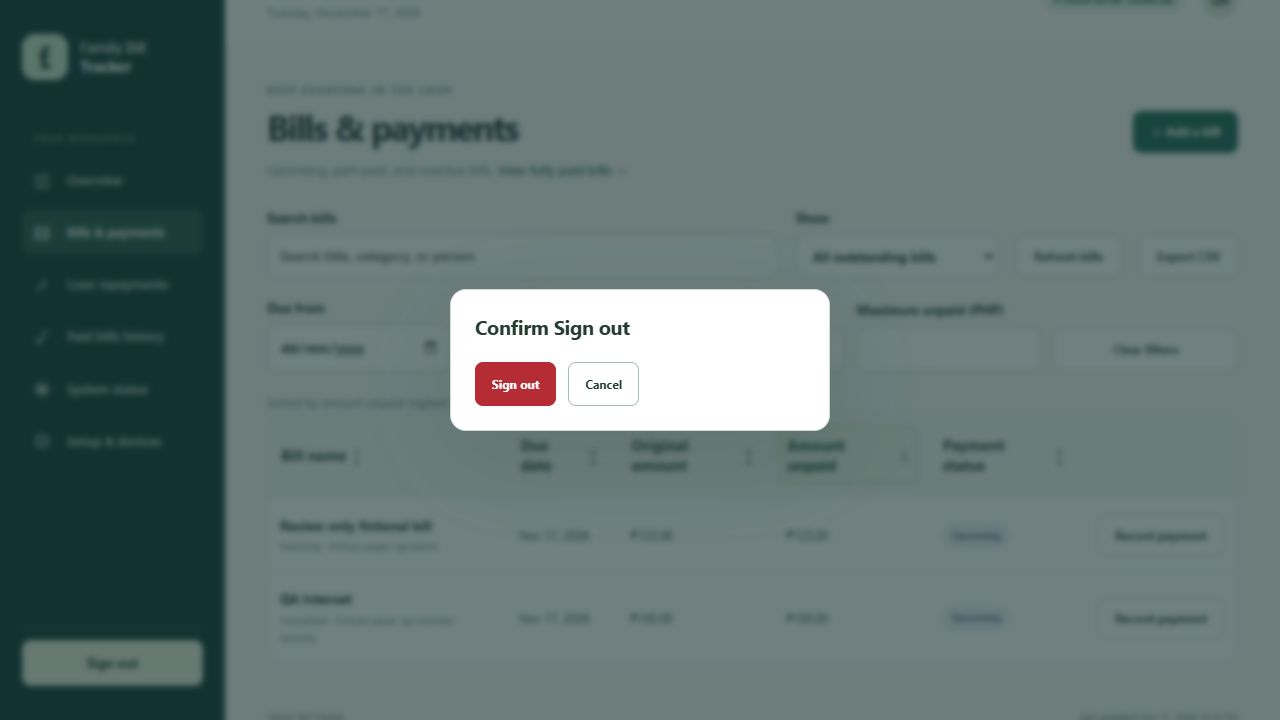
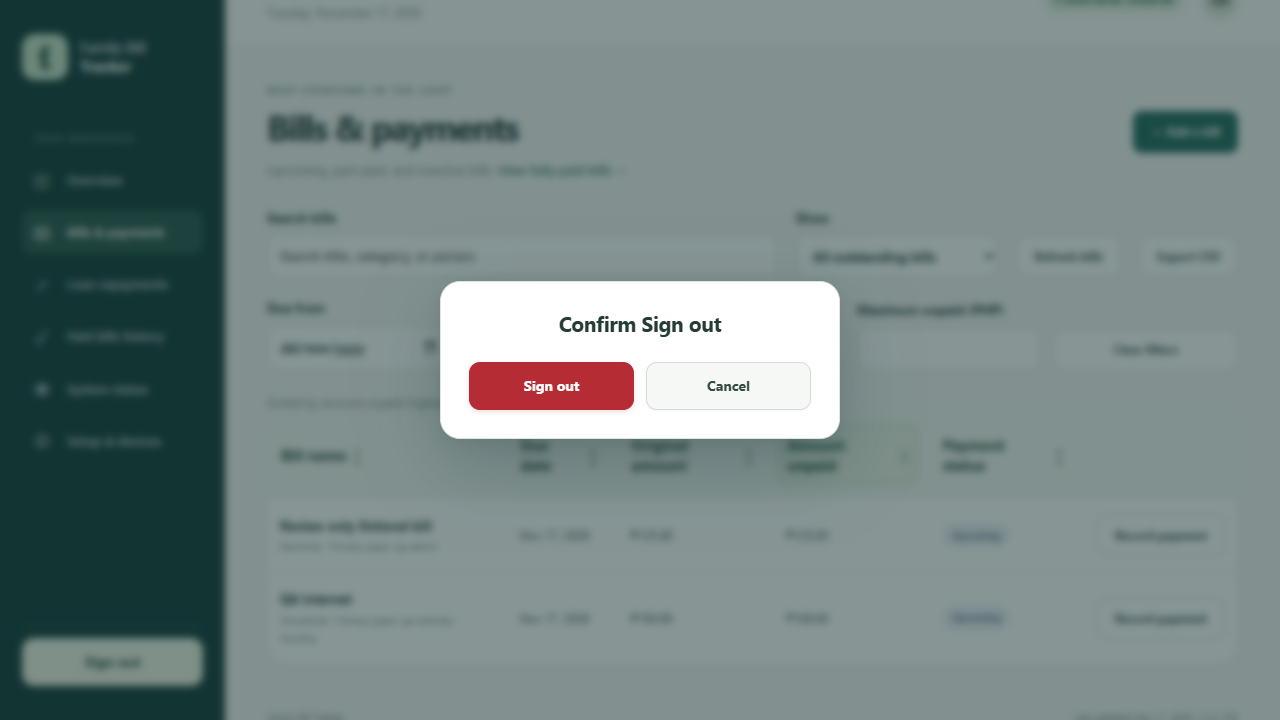
Polish sign-out button and confirmation box

Changed region(s): [[0.3438, 0.3667, 0.6562, 0.6111], [0.0312, 0.8861, 0.1562, 0.9472], [0.5625, 0.5194, 0.5938, 0.55]]

diff --git a/static/app.css b/static/app.css
@@ -1,5 +1,6 @@
 @import url("/static/fonts.css");
 
+
 .stats{grid-template-columns:repeat(3,minmax(0,1fr))}.sort-heading{border:0;background:transparent;color:var(--ink);font:inherit;font-weight:700;text-align:left;padding:5px 0;min-height:44px;white-space:nowrap}.sort-heading:hover{text-decoration:underline}.mobile-bill-sort{display:none}.bill-type-choices{display:grid;gap:14px;margin:20px 0}.bill-type-choice{background:#f3f7ed;color:var(--ink);border:1px solid #cbd9c6;border-radius:12px;padding:20px;text-align:left;min-height:90px}.bill-type-choice strong{display:block;font-size:20px;margin-bottom:5px}.bill-type-choice span{display:block;font-size:13px;font-weight:400}.bill-type-choice:hover{background:#e5efdc}.loan-preview{margin:20px 0}.schedule-scroll{max-height:230px;overflow:auto;border:1px solid var(--line);border-radius:10px}.schedule-scroll th,.schedule-scroll td{padding:10px;font-size:12px}.schedule-scroll td:first-child{min-width:0}.history-table{padding:0;overflow:hidden}.history-table .small{display:block}.history-table .bill-detail{white-space:normal}#history .hint{margin-bottom:16px}#history-summary{margin-top:12px}.history-table td{vertical-align:top}
 
 /* Enter money directly; retain native numeric validation and decimal keyboards. */
@@ -28,3 +29,6 @@ progress{display:block;width:100%;height:9px;border:0;accent-color:#609779;margi
 .bill-table th{padding:12px 20px;text-transform:none;letter-spacing:0;background:#f3f7f2}.bill-table .sort-heading{display:inline-flex;align-items:center;gap:9px;min-height:46px;margin-left:-10px;padding:10px;border:1px solid transparent;border-radius:9px;font-family:inherit;font-size:15px;font-weight:700;line-height:1.35;letter-spacing:0;text-transform:none;color:#25483d;text-decoration:none}.sort-heading span{font-size:18px;line-height:1;color:#617b6e}.bill-table .sort-heading:hover{background:#e4efdf;border-color:#abc5af;color:#153f31;text-decoration:none}.bill-table th[aria-sort=ascending] .sort-heading,.bill-table th[aria-sort=descending] .sort-heading{background:#eaf2e5;border-color:#bed1b7;color:#174d3a}.bill-table th[aria-sort=ascending] .sort-heading:hover,.bill-table th[aria-sort=descending] .sort-heading:hover{background:#dcebd5;border-color:#8daf95}.bill-table .sort-heading:focus-visible{outline:3px solid #3c8666;outline-offset:2px;background:#e4efdf}.mobile-bill-sort .button{font-size:13px;gap:8px}.mobile-bill-sort .button:hover{background:#e4efdf;border-color:#abc5af}@media(min-width:781px){.bill-table table{min-width:890px}}@media(prefers-reduced-motion:no-preference){.sort-heading,.mobile-bill-sort .button{transition:background-color .15s,border-color .15s,color .15s}}
 
 .bill-table .sort-heading{white-space:normal;max-width:142px;margin-left:-8px;padding:9px 8px;gap:6px}@media(min-width:781px){.bill-table th{padding:12px}.bill-table td{padding:16px 12px}}
+
+/* A defined, comfortable sidebar action that stays distinct from navigation. */
+@media(min-width:781px){.sidebar-signout{min-height:48px;padding:12px 18px;border-radius:12px;border-color:#c6d7bd;background:#eff4e6;color:#214b3b;font-size:14px;box-shadow:inset 0 1px 0 #ffffffb3,0 2px 5px #082b2326}.sidebar-signout:hover{background:#e0ebd4;border-color:#aac39e;box-shadow:inset 0 1px 0 #ffffffb3,0 3px 8px #082b2333}}@media(max-width:780px){.sidebar-signout{border-radius:11px;min-height:44px;min-width:78px;padding:10px 12px}}@media(prefers-reduced-motion:no-preference){.sidebar-signout{transition:background-color .15s,border-color .15s,box-shadow .15s}}

diff --git a/static/review.css b/static/review.css
@@ -1,2 +1,4 @@
 .review-dialog{box-sizing:border-box;width:calc(100% - 32px);max-width:580px;max-height:88dvh;overflow:auto;border:1px solid #cfdad3;border-radius:16px;padding:24px;background:var(--body-bg,#fff);color:var(--body-fg,#243c32)}.review-dialog::backdrop{background:#102b2c99}.review-dialog h2{margin:0 0 16px}.review-dialog p{margin:12px 0;font-size:14px}.review-dialog dl{display:grid;grid-template-columns:minmax(100px,1fr) minmax(0,2fr);gap:12px;margin:24px 0}.review-dialog dt{font-weight:650}.review-dialog dd{margin:0;white-space:pre-wrap;overflow-wrap:anywhere}.review-dialog .button-row{display:flex;flex-wrap:wrap;gap:12px}.review-dialog button{min-height:44px;padding:10px 16px;border-radius:8px;cursor:pointer}.review-dialog .primary{background:#235c46;color:white;border:1px solid #235c46}.review-dialog .secondary{background:var(--body-bg,#fff);color:inherit;border:1px solid #aabbb0}.review-dialog :focus-visible{outline:3px solid #c78e20;outline-offset:3px}@media(max-width:420px){.review-dialog{padding:18px}.review-dialog dl{grid-template-columns:1fr;gap:6px}.review-dialog dd{margin-bottom:10px}}
 .signout-dialog{max-width:380px}.signout-dialog h2{font-size:20px;margin:0 0 22px}.signout-dialog .button-row{margin-top:0}.signout-dialog .primary{background:#b52c35;border-color:#b52c35;color:#fff}.signout-dialog .primary:hover{background:#94212a;border-color:#94212a}.signout-dialog .secondary:hover{background:#f0f3ef}
+
+.signout-dialog{max-width:400px;padding:28px;border:1px solid #dce5df;border-radius:20px;box-shadow:0 24px 72px #102e3240,0 4px 16px #102e3214}.signout-dialog::backdrop{background:#102b2c80;backdrop-filter:blur(4px)}.signout-dialog h2{font-size:21px;font-weight:700;letter-spacing:-.4px;text-align:center;margin:0 0 24px}.signout-dialog .button-row{display:grid;grid-template-columns:minmax(0,1fr) minmax(0,1fr);gap:12px}.signout-dialog button{width:100%;min-height:48px;border-radius:11px;font-size:14px;font-weight:650;box-shadow:0 1px 2px #17352b0d}.signout-dialog .primary{background:#b52c35;border-color:#b52c35;box-shadow:0 2px 5px #9d1d2524}.signout-dialog .secondary{background:#f6f8f5;border-color:#d3ddd5;color:#344b40}.signout-dialog .secondary:hover{background:#eaf0e7;border-color:#b6c7b8}.signout-dialog .primary:focus-visible{outline:3px solid #e6a6ab;outline-offset:3px}.signout-dialog .secondary:focus-visible{outline:3px solid #9fc2ac;outline-offset:3px}@media(max-width:420px){.signout-dialog{padding:24px;border-radius:18px}}@media(prefers-reduced-motion:no-preference){.signout-dialog button{transition:background-color .15s,border-color .15s,box-shadow .15s}}

diff --git a/static/sw.js b/static/sw.js
@@ -1,5 +1,5 @@
 /* Cache only the public shell. Authenticated responses and API data are never cached here. */
-const SHELL_CACHE = 'fbt-shell-v9';
+const SHELL_CACHE = 'fbt-shell-v10';
 const ASSETS = ['/app/', '/static/app.css', '/static/fonts.css', '/static/app.js', '/static/review.js', '/static/review.css', '/static/record-filters.js', '/static/offline-store.js', '/static/icon.svg', '/static/icon-180.png', '/static/icon-192.png', '/static/icon-512.png', '/static/manifest.webmanifest'];
 self.addEventListener('install', event => {
   event.waitUntil(caches.open(SHELL_CACHE).then(cache => cache.addAll(ASSETS)).then(() => self.skipWaiting()));

diff --git a/docs/FAMILY-WORKFLOWS.md b/docs/FAMILY-WORKFLOWS.md
@@ -60,6 +60,6 @@ Account audit snapshots now include username, first name, last name, email, acti
 
 ## Upgrade and verification
 
-Back up the database and verify restore instructions in OPERATIONS.md. Stop web and worker processes before running migration `0004_family_workflows`, then restart both. The migration preserves all existing rows and audit history, adds lifecycle flags and retry receipts, and replaces audit triggers within the migration transaction. This also handles SQLite table rebuilds. Do not edit the frozen v1/v2 trigger definitions after deployment. Check System status → Audit logging after upgrading. Cached public shells advance to v9 with the new review/filter assets; private snapshots still require a live refresh for new fields.
+Back up the database and verify restore instructions in OPERATIONS.md. Stop web and worker processes before running migration `0004_family_workflows`, then restart both. The migration preserves all existing rows and audit history, adds lifecycle flags and retry receipts, and replaces audit triggers within the migration transaction. This also handles SQLite table rebuilds. Do not edit the frozen v1/v2 trigger definitions after deployment. Check System status → Audit logging after upgrading. Cached public shells advance to v10 with the new review/filter assets; private snapshots still require a live refresh for new fields.
 
 CI runs PostgreSQL 17 transaction/security/migration checks, JavaScript filter/offline tests and real Chromium workflows on every push/PR, and attaches screenshots as a browser-qa artifact. Browser checks use fictional accounts and an isolated test database; no real family records or local credentials enter the tests. Install the development-only browser dependency with `npm ci` and `npx playwright install chromium`; set `FBT_BROWSER_TESTS=1` when running Django tests to include those checks locally.

diff --git a/docs/BILL-ENTRY-AND-HISTORY.md b/docs/BILL-ENTRY-AND-HISTORY.md
@@ -39,7 +39,7 @@ Primary payer and Recorded by are separate filters. A recorder is the person who
 
 The same sorting and history operate on an opted-in, timestamped offline snapshot. This remains read-only; reconnect and refresh to obtain newer payments or names. Older saved snapshots can use their recorded names as a fallback for history filters until refreshed. Global administrator audit history remains live-only and is separate from shared paid-bill history.
 
-This change adds payment-recorder IDs to the authenticated snapshot, but introduces no database schema migration and does not change balances or erase records. The service-worker shell advances to v9. Restart the web process after deployment to load the updated template, then refresh the browser. Existing database backup practices still apply.
+This change adds payment-recorder IDs to the authenticated snapshot, but introduces no database schema migration and does not change balances or erase records. The service-worker shell advances to v10. Restart the web process after deployment to load the updated template, then refresh the browser. Existing database backup practices still apply.
 
 History pagination limits rendered rows, not the size of the existing all-bills snapshot download. A future server-paginated snapshot strategy may be appropriate for substantially larger households/history datasets.
 
